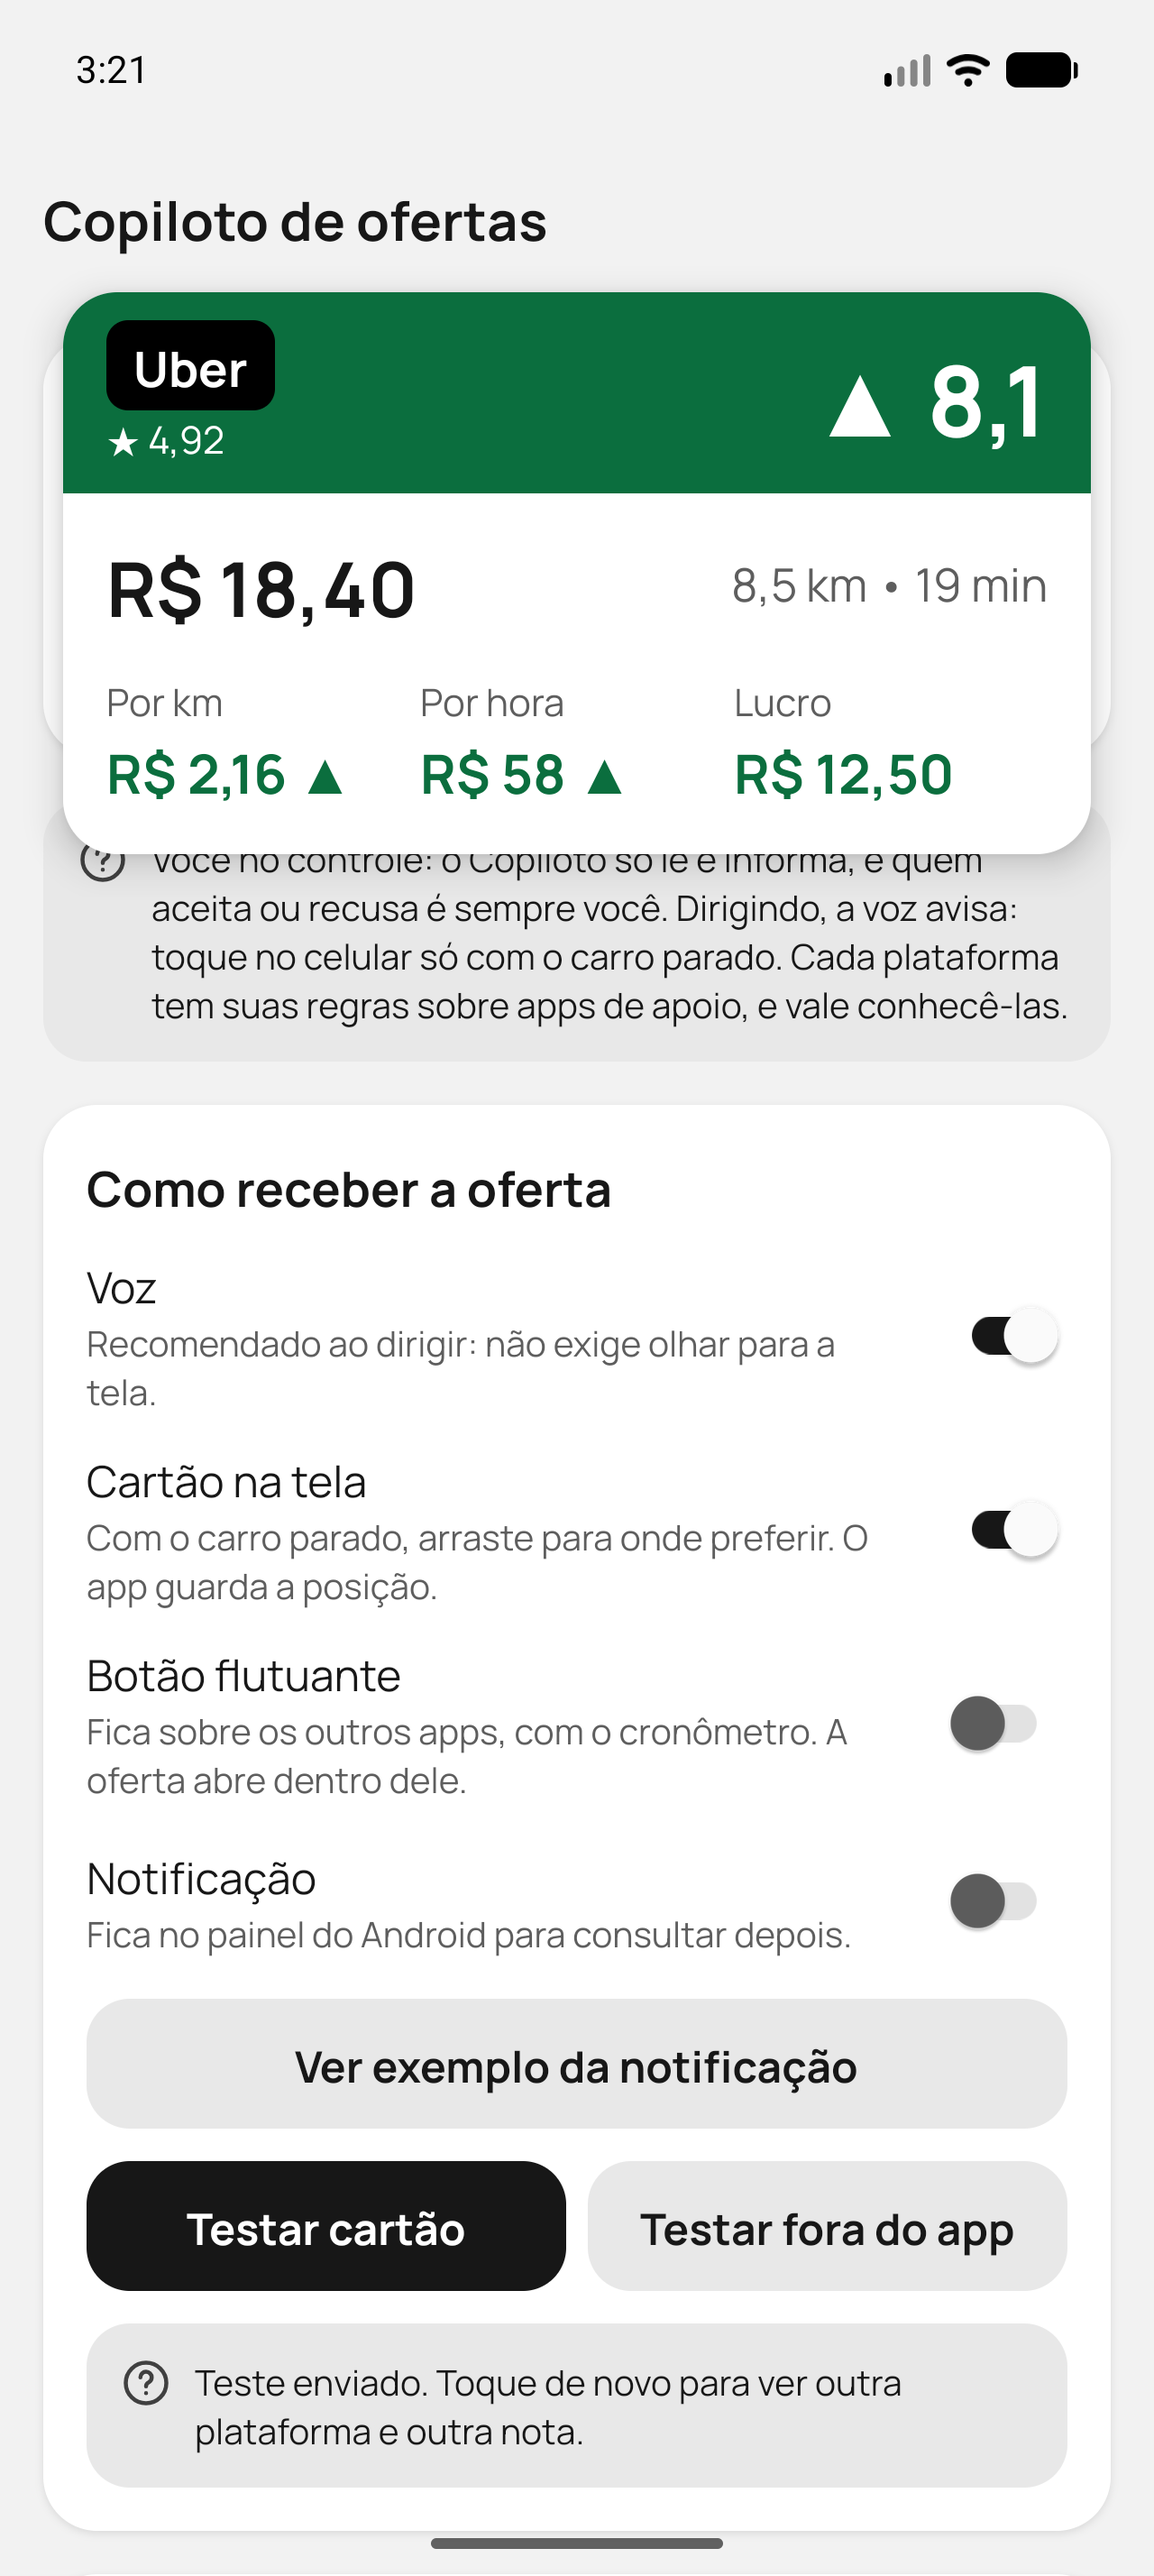
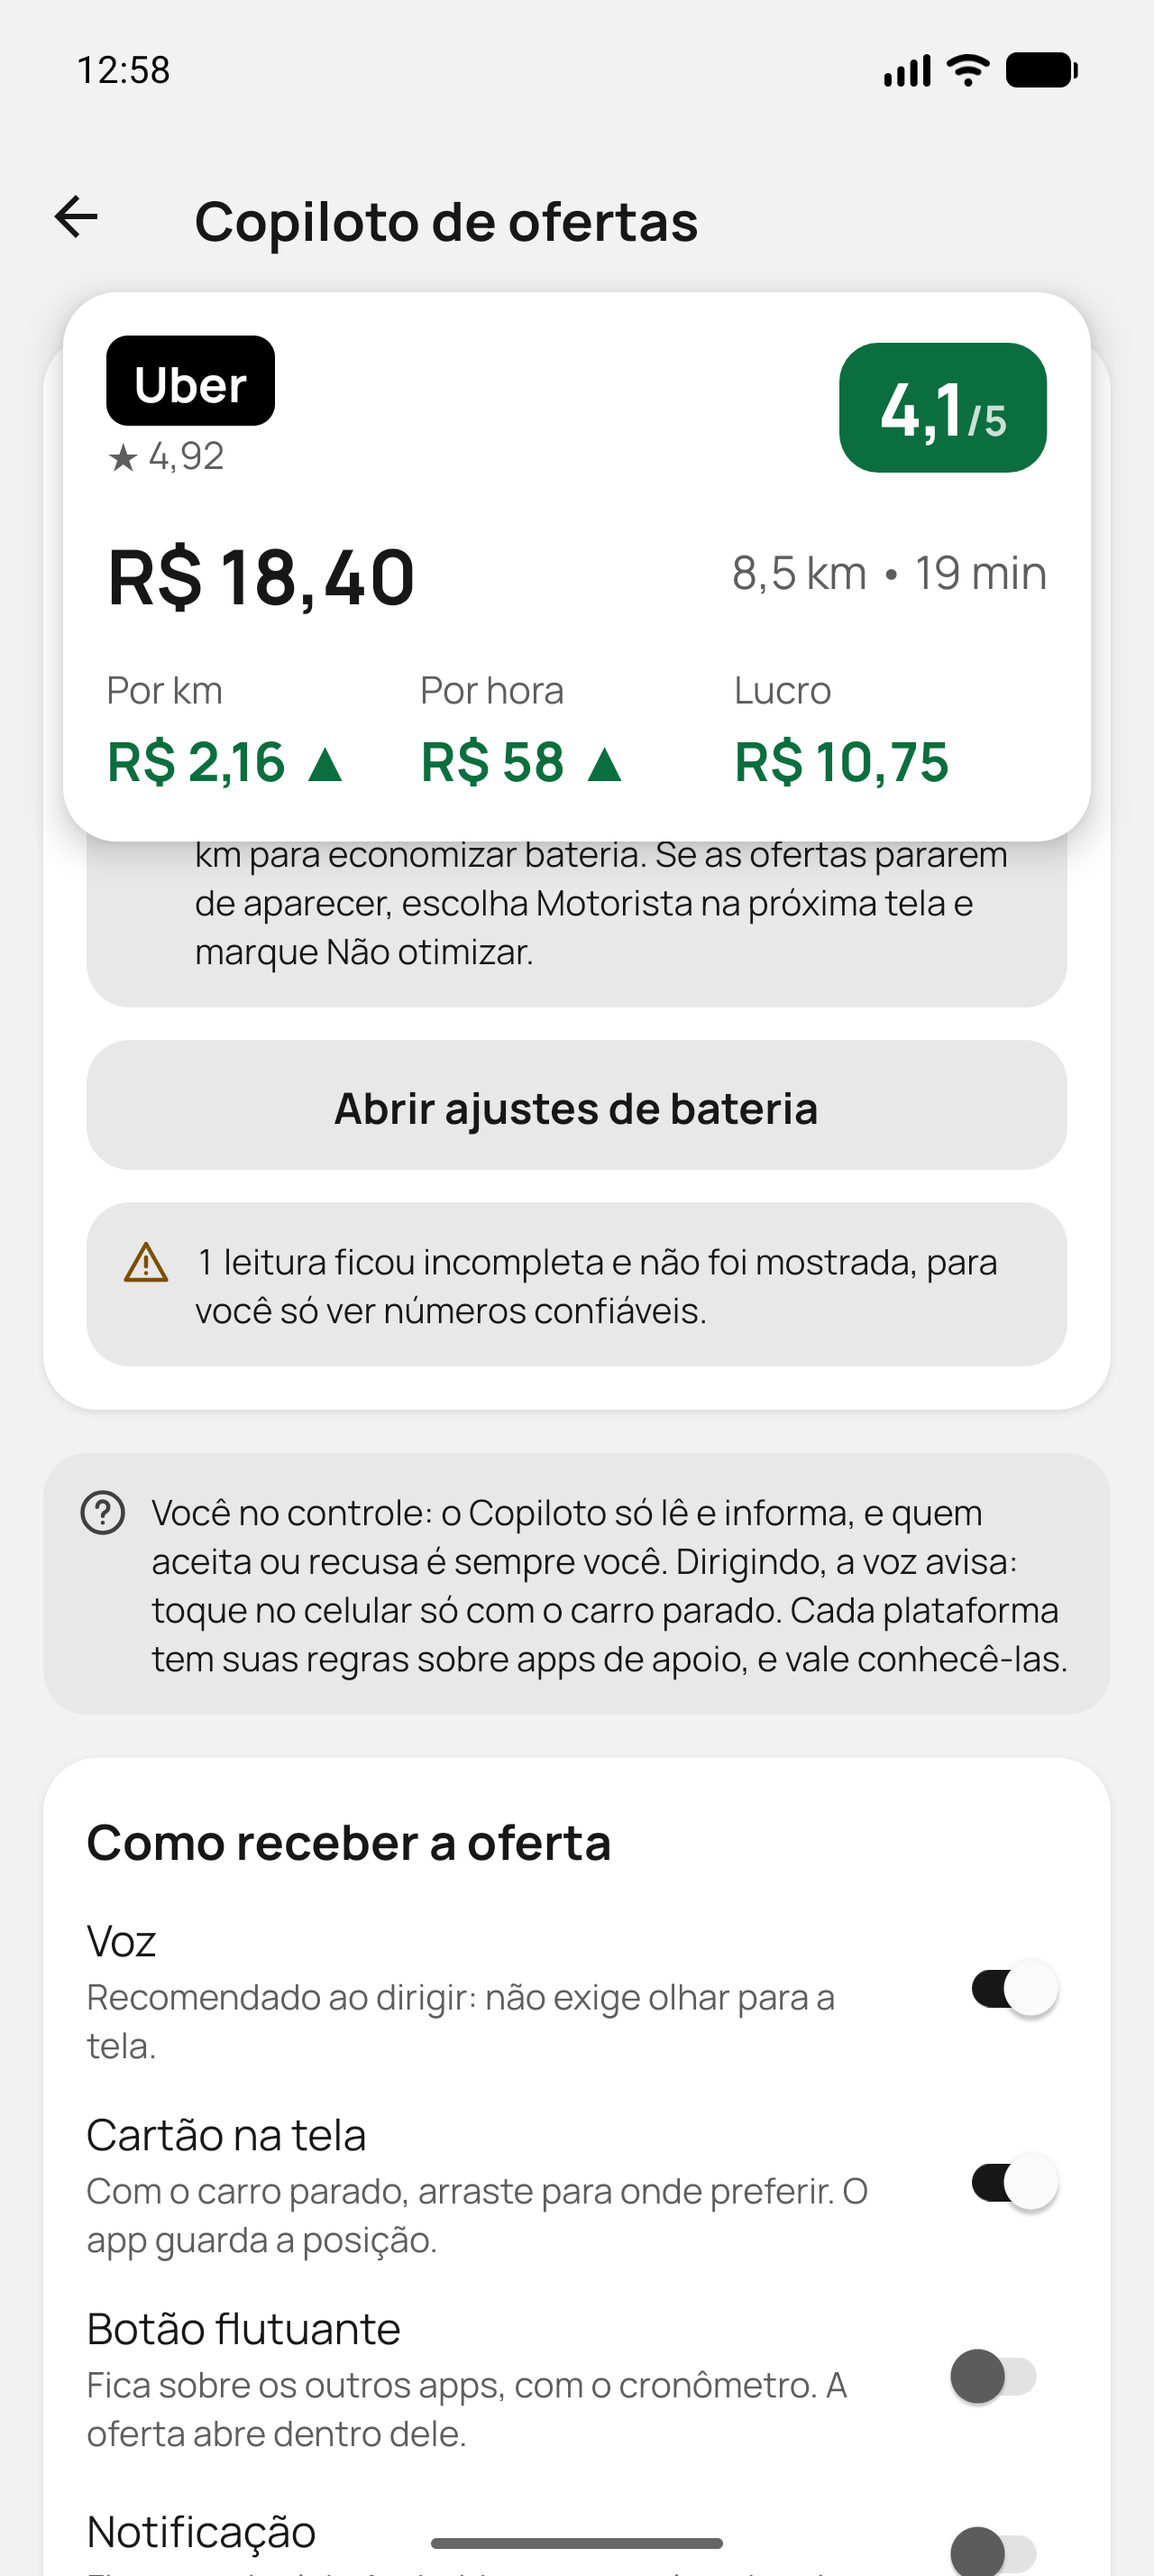
docs: atualiza o README, a captura da oferta e as decisões da 0.8.2

diff --git a/docs/arquitetura.md b/docs/arquitetura.md
@@ -72,6 +72,18 @@ app -> features -> data -> domain -> shared/utils
 
 **Regras duplicadas de oferta e da nota.** O Copiloto precisa calcular em Kotlin porque roda com o app em segundo plano, e a calculadora manual usa TypeScript. Os dois lados são testados com `modules/copilot/fixtures/offers.json`, para continuarem iguais.
 
+**Preço por km não é valor da corrida.** Plataformas mostram `R$ 2,3/km` antes do valor. `OfferParser` ignora valores seguidos de `/km`, `/h` ou `por km`. Quando a tela traz esse preço, o km total é o valor dividido por ele, porque a distância escrita pode ser só o trecho até o passageiro.
+
+**Tempo da corrida pode faltar.** `2 min.` com ponto indica há quanto tempo o pedido foi feito, não a duração, e por isso é ignorado. Sem tempo na oferta, `minutes` é 0: a nota usa só o R$/km, e o R$/h fica vazio. Nunca estimamos o tempo.
+
+**Sem tempo, nota até 4.** Sem a duração não dá para saber se a corrida compensa por hora, então a nota não passa de 4.
+
+**Selo de nota.** A nota de 0 a 5 aparece sempre no mesmo selo, com a cor da faixa e o número escrito, para a faixa não depender só da cor. Cartão e notificação têm fundo neutro, e o selo é o único ponto de cor. O selo é desenhado em `ScoreBadge`, em TypeScript e em Kotlin, com as mesmas proporções e cores. O histórico mudou de chave ao trocar a escala, para não misturar notas de 0 a 10.
+
+**Leitura de todas as janelas do app monitorado.** Uma oferta pode abrir em outra janela ou em views marcadas como não importantes. Por isso o serviço usa `flagRetrieveInteractiveWindows` e `flagIncludeNotImportantViews`, e `monitoredRoots` descarta as janelas de qualquer outro app. Só o texto visível é lido.
+
+**Mock de ofertas só em debug.** `OfferMockReceiver` só é registrado quando o app é depurável, porque recebe comandos de fora do app. `scripts/mock-oferta.sh` envia o texto para o mesmo caminho da leitura real, mas não passa pela captura da tela das plataformas.
+
 **Cronômetro no lado nativo.** O botão flutuante e o app precisam ver o mesmo estado, mesmo com o app fechado. Por isso o estado fica em `ShiftTimer`, no Kotlin.
 
 **Internet só no build de desenvolvimento.** O Metro exige `INTERNET`. Com `APP_VARIANT=release`, a permissão é removida em `app.config.ts`.
@@ -124,3 +136,13 @@ app -> features -> data -> domain -> shared/utils
 - **Painel do botão flutuante:** `FloatingPanel` desenha o botão fechado e o painel aberto, e `FloatingTimerService` cuida da janela, do cronômetro e das ofertas.
 - **Mesma regra de oferta:** o botão flutuante usa as preferências do cartão como estão, sem forçar o formato resumido.
 - **Tempo do cartão:** o padrão é de 8 segundos, e um valor já salvo pelo usuário é mantido.
+
+## Decisões da versão 0.8.2
+
+- **Permissões conferidas no release:** `scripts/verificar-permissoes.sh` para o script de release se o APK pedir uma permissão fora da lista, como `INTERNET`.
+- **Relato sem conta:** `ReportScreen` monta o texto e usa o menu de compartilhar do Android, sem internet no app. O motorista vê o que será enviado antes.
+- **Aviso de versão antiga:** `extra.buildDate` guarda a data do build, e o início sugere verificar a atualização depois de 30 dias, sem consultar nada na internet.
+- **Restauração completa:** `applyRestoredState` volta os ajustes do Copiloto, as metas, o tema e reagenda as notificações. Uma falha nessa etapa não vira "restauração falhou", porque os dados já foram trocados. A cópia de segurança pode ser restaurada em Backup.
+- **Jornada esquecida no lado nativo:** `ForgottenShiftAlarm` agenda o aviso em `ShiftTimer`, porque a jornada também começa pelo botão flutuante, com o app fechado. Usa alarme inexato, que não exige permissão nova.
+- **Leituras de oferta preservadas:** `OfferDiagnostics` guarda em separado as telas com valor, para as outras não as apagarem antes de serem enviadas.
+

diff --git a/README.md b/README.md
@@ -37,9 +37,9 @@ O Motorista quer democratizar esse tipo de app. Ele é uma opção profissional 
 - **Jornadas:** cronômetro, km medidos por GPS e ganhos por plataforma.
 - **Calculadoras:** avaliação de ofertas e preço de corridas particulares.
 - **Meta e mínimos:** transforma o lucro que você quer em valor por dia e no mínimo que cada corrida deve pagar, por km e por hora.
-- **Copiloto de ofertas:** lê a oferta na tela e mostra uma nota de 0 a 10 por cartão, botão flutuante, notificação ou voz.
+- **Copiloto de ofertas:** lê a oferta na tela e mostra uma nota de 0 a 5 por cartão, botão flutuante, notificação ou voz.
 - **Visual limpo:** preto, branco e cinza, com cor só onde ela informa, como no lucro e na nota da oferta. Tem tema claro e escuro.
-- **Mais recursos:** relatórios, lembretes de manutenção e backup em arquivo.
+- **Mais recursos:** relatórios, lembretes de manutenção e do fim do dia, e backup em arquivo.
 
 ### Você sempre decide
 
@@ -69,7 +69,7 @@ O app é distribuído fora das lojas, então o Android pode mostrar avisos extra
 
 ## Problemas e sugestões
 
-Encontrou um problema ou teve uma ideia? Conte para a gente, seja motorista ou desenvolvedor. Basta ter uma conta gratuita no GitHub.
+Encontrou um problema ou teve uma ideia? No app, abra Mais e toque em Relatar um problema: você revisa o texto e envia por onde quiser, como o WhatsApp. Se preferir o GitHub, use os links abaixo, com uma conta gratuita.
 
 - [**Relatar um problema**](https://github.com/Dev-Etto/motorista/issues/new?template=problema.yml)
 - [**Sugerir uma melhoria**](https://github.com/Dev-Etto/motorista/issues/new?template=sugestao.yml)
@@ -97,7 +97,9 @@ npm run lint
 npm run android
 ```
 
-`npm run build:apk` gera o APK assinado em `dist/motorista.apk`. Ele exige uma chave de assinatura própria, indicada pelas variáveis `MOTORISTA_KEYSTORE` e `MOTORISTA_KEYSTORE_PASSWORD`.
+Para testar o Copiloto sem uma oferta real, use `npm run android`, depois `npm run mock -- setup` e `npm run mock -- uber`. O comando `npm run mock` lista as outras opções. As ofertas são simuladas e funcionam só em build de debug.
+
+`npm run build:apk` roda as verificações, gera o APK assinado em `dist/motorista.apk` e confere as permissões dele. Ele exige uma chave de assinatura própria, indicada pelas variáveis `MOTORISTA_KEYSTORE` e `MOTORISTA_KEYSTORE_PASSWORD`.
 
 ## Licença
 
